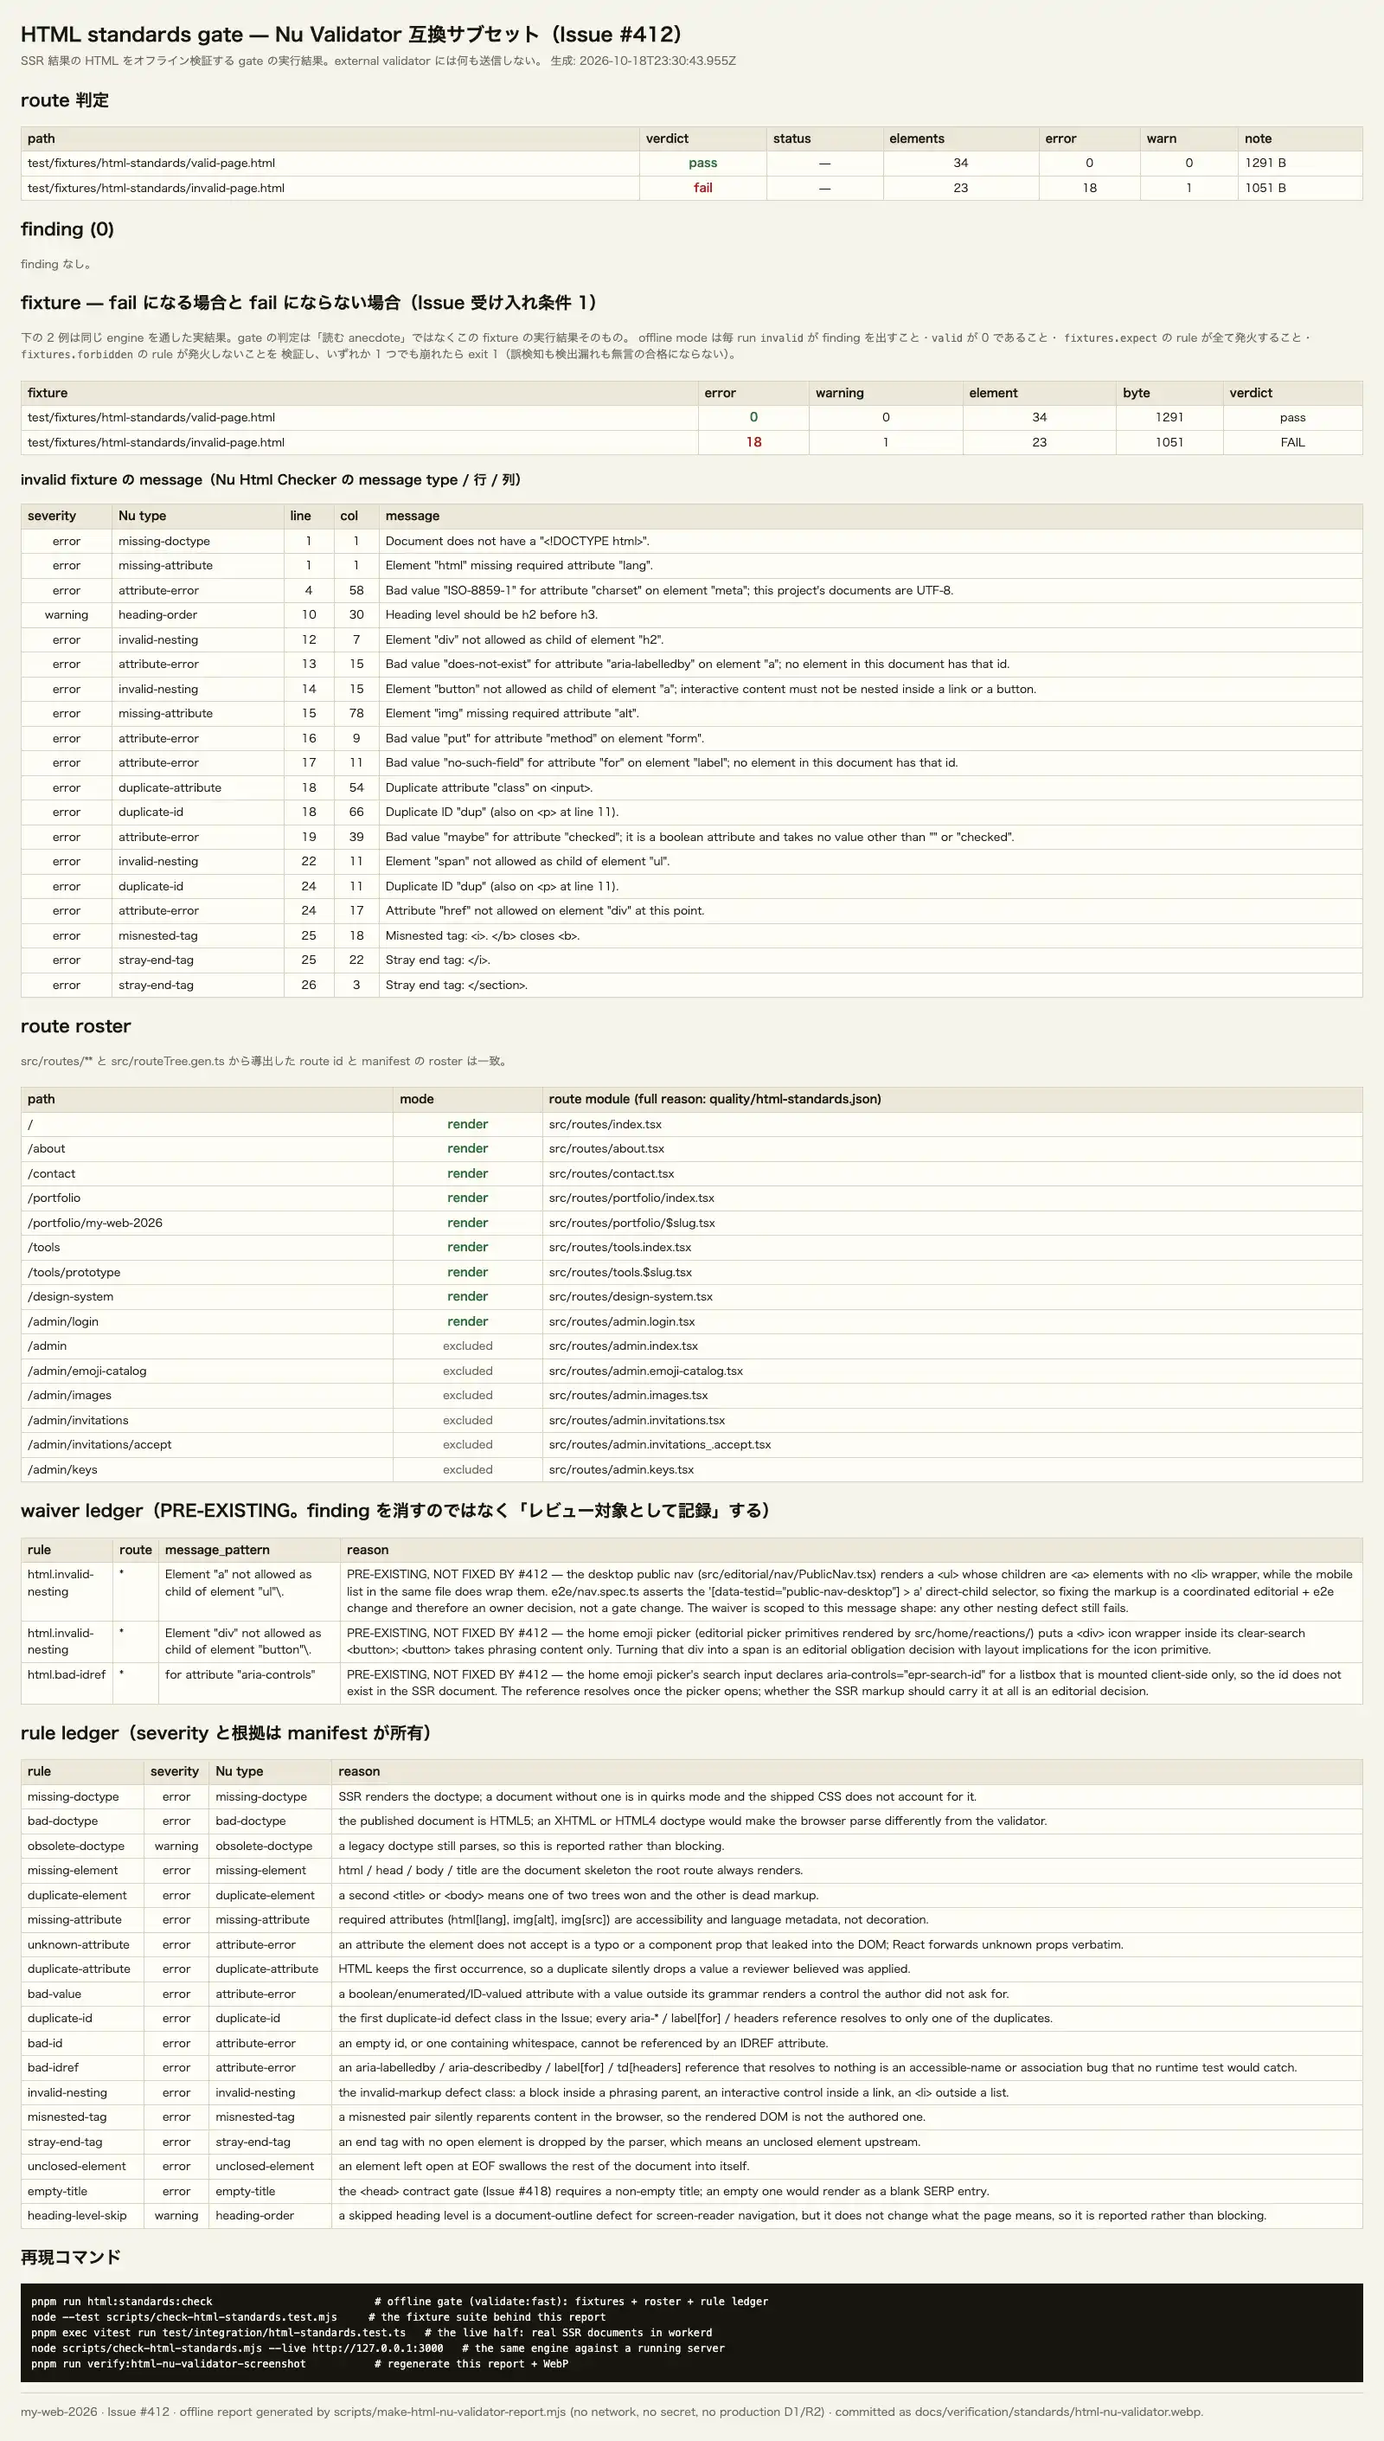
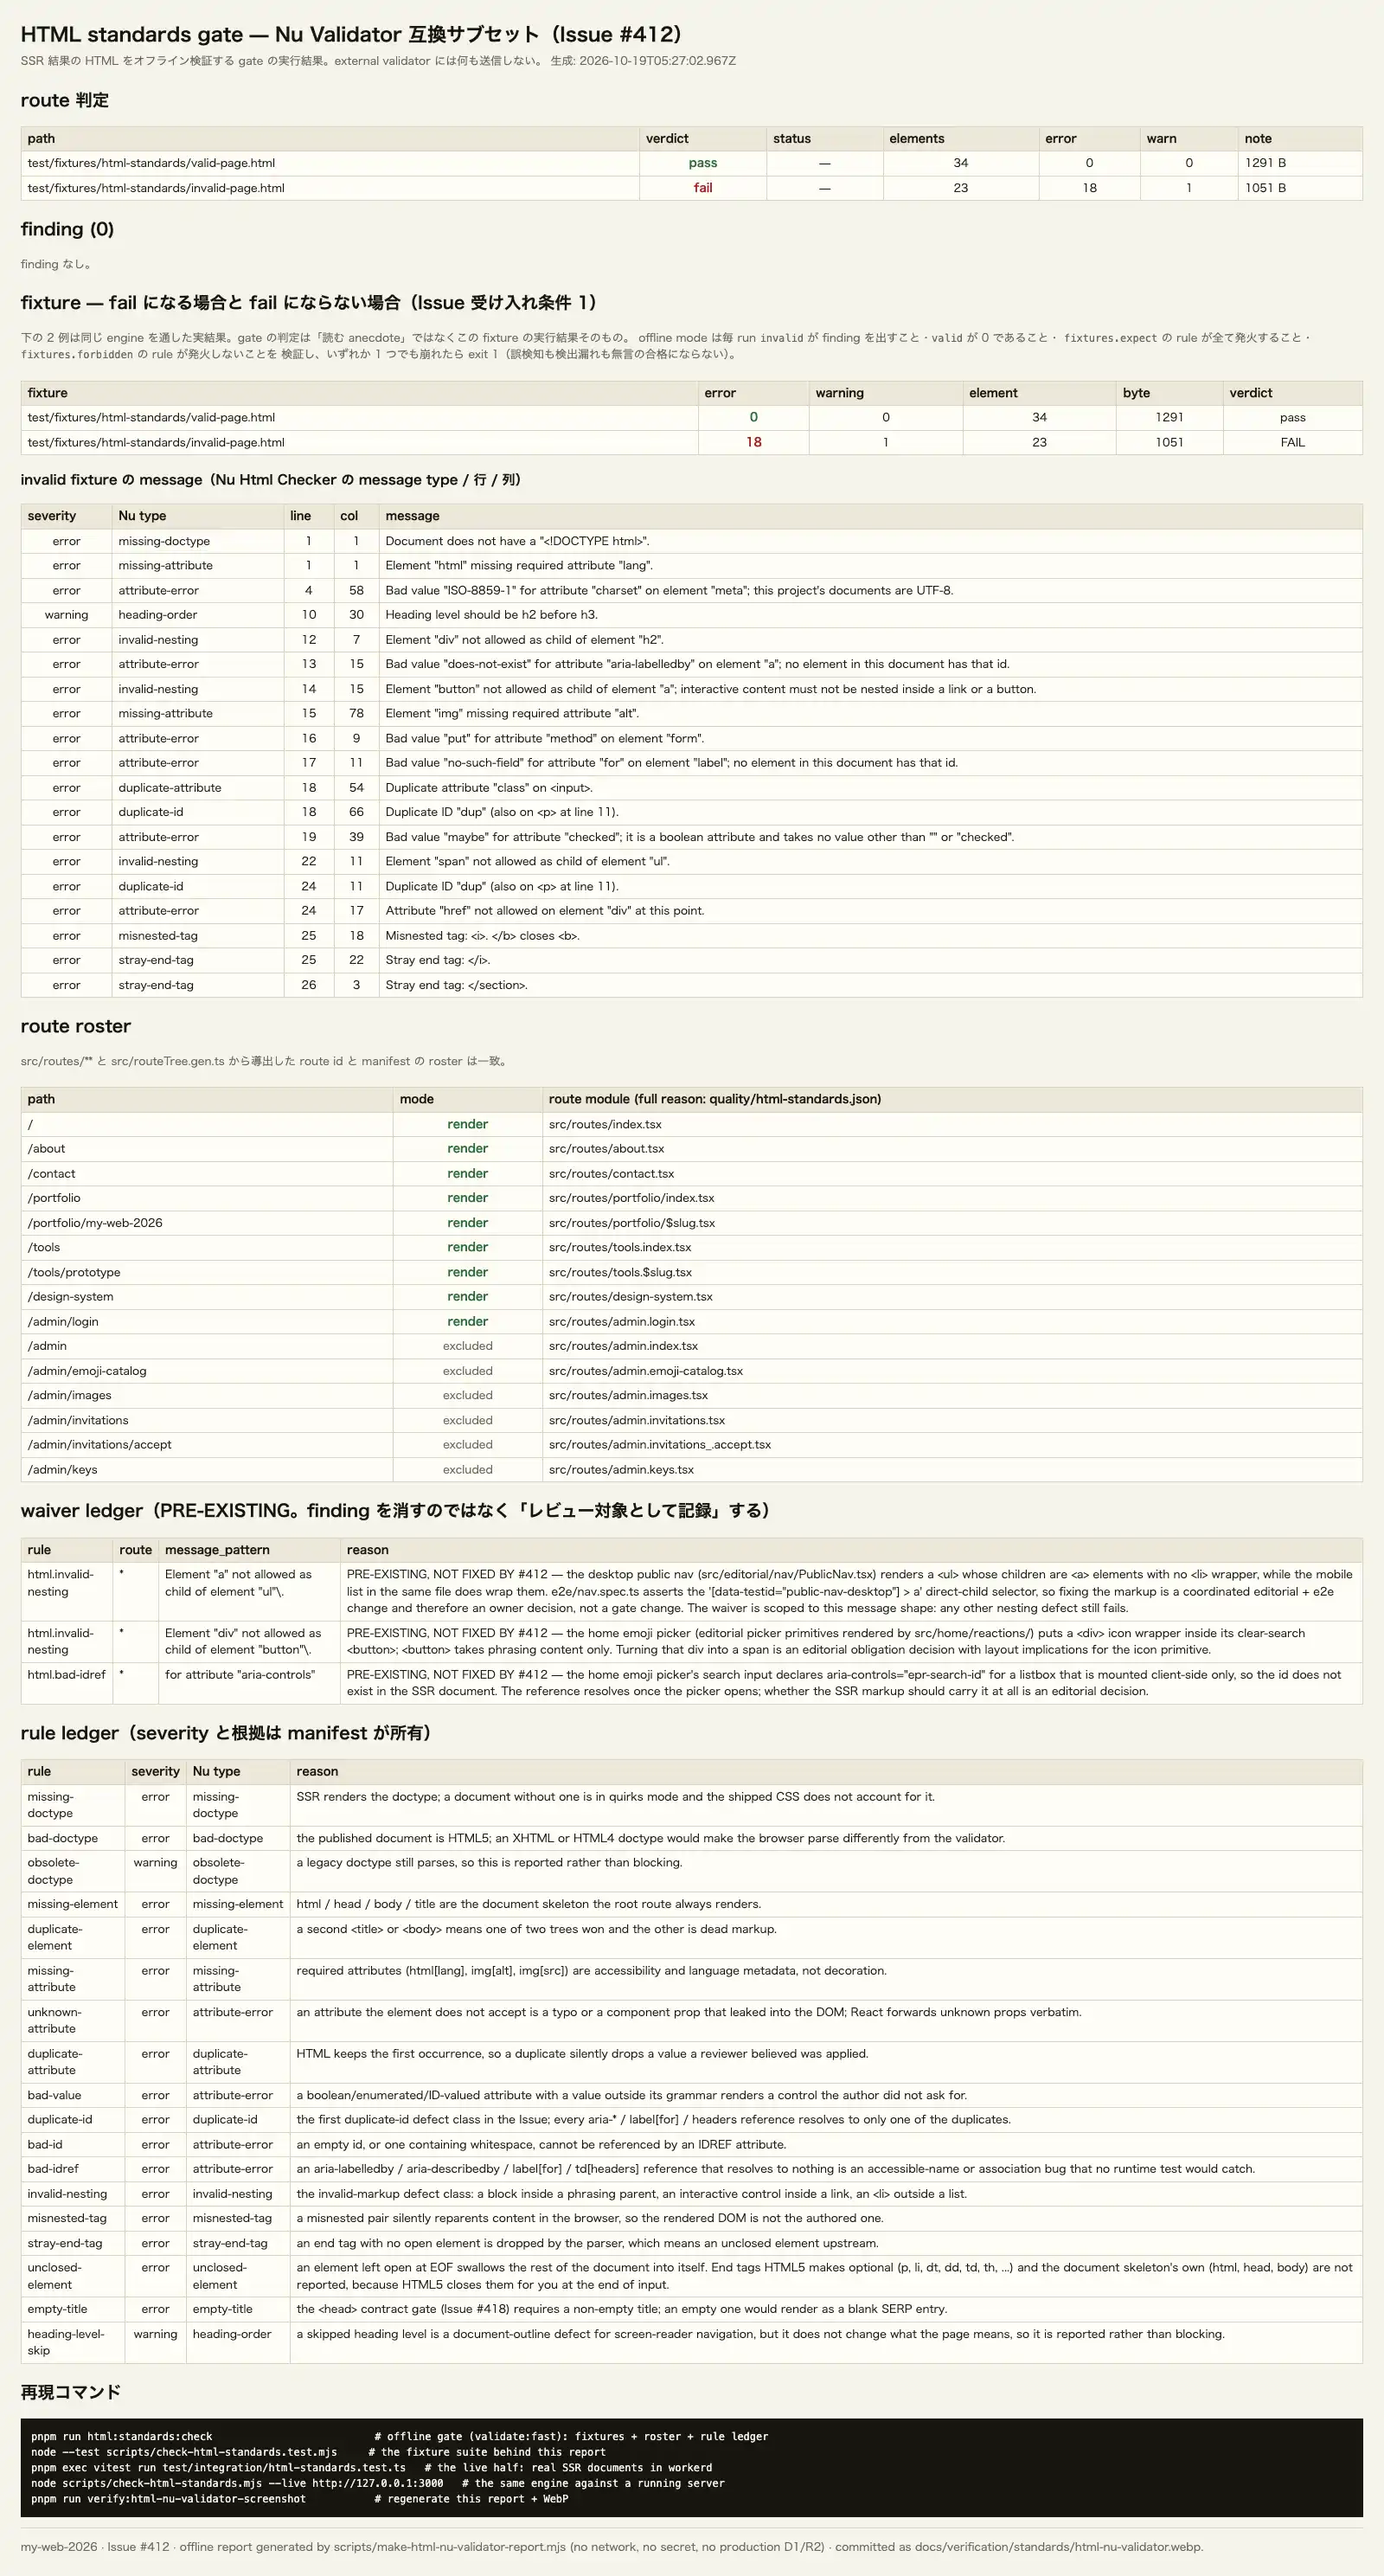
fix(standards): stop the HTML engine hanging and counting waived findings (#412)
Two defects in the Issue #412 gate engine, both found in review:

- The literal-`<` branch of the tokenizer called `advance(1)`, but
  `advance(to)` assigns the cursor absolutely (`i = to`), so any document
  holding a `<` that does not open a tag re-entered the loop at offset 1
  and appended a text node forever. `<p>a < b</p>` OOM'd the process
  instead of reporting a verdict. The branch now moves past the `<` and
  records the real column.
- `effectiveFindings()` counted waived findings although its own
  contract says waived findings never count against the exit code, so
  `--live` exited 1 and printed the three ledger-covered defects as
  FAIL on a codebase whose defects are all waived. It now matches
  `evaluateRoutes().stats.errors`, with a loopback `--live` regression
  test for both the covered (exit 0) and uncovered (exit 1) case.

Also from the same review: an element whose end tag HTML5 makes
optional (and the html/head/body skeleton) is no longer reported as
`unclosed-element` at EOF, the manifest loader rejects a manifest with no
fixture paths as unusable (exit 2) instead of throwing a raw TypeError,
the dead second disjunct in the `fixtures.expect` check is gone, the
verification note and profile describe the hoisted-`<style>` exemption
the engine actually implements, the SSR half documents that it validates
the failure-fallback state (no HOME_API_KEY in workerd), and the warning
assertion pins which rules may be non-blocking rather than how many.

diff --git a/test/integration/html-standards.test.ts b/test/integration/html-standards.test.ts
@@ -63,6 +63,21 @@ import { seedPortfolioRow } from './fixtures/portfolio-d1';
  * `/portfolio` read the portfolio tables), so the suite applies the real
  * migration files through `?raw` imports and seeds one public portfolio
  * row. Nothing is fetched from production and no secret is read.
+ *
+ * Which SSR state this covers — and which it does not
+ * ----------------------------------------------------
+ * The Worker runs here without `HOME_API_KEY`, so `/api/v1/access/count`
+ * and the reactions endpoints answer 401 and the home document renders
+ * their FAILURE fallbacks rather than the live numbers and the live emoji
+ * list. What is validated is therefore the failure-state document: the
+ * shell, the nav, the editorial primitives, the picker's SSR markup (the
+ * three shipped waivers match it, or this suite would fail with
+ * `waiver.unused`), the portfolio documents and the design-system route.
+ * The success-state markup of the counter and the reaction list is NOT
+ * covered here; it is what `--live <baseUrl>` against a running server
+ * covers. Seeding a valid API key into workerd is not done here on
+ * purpose: a test that depends on a credential is a test that silently
+ * stops covering the document.
  */
 
 type Severity = 'error' | 'warning';
@@ -252,15 +267,23 @@ describe('SSR HTML conformance (Issue #412)', () => {
 		);
 		// The gate fails on error-level findings only; warnings and waived
 		// findings are asserted separately below, so this assertion stays the
-		// one thing a reader scans in CI output.
+		// one thing a reader scans in CI output. `summary` is the failure
+		// message, so a red run prints the waived findings too — a waiver is
+		// a reviewable statement, not a hidden one.
 		expect(
 			blocking
 				.map((finding) => `${finding.rule} ${finding.path ?? ''}: ${finding.message}`)
 				.join('\n'),
+			summary,
 		).toBe('');
 		expect(result.stats.errors).toBe(0);
-		expect(warned.length).toBe(1);
-		expect(summary).toContain('warning html.heading-level-skip');
+		// The count of warnings is deliberately NOT pinned: `heading-level-skip`
+		// is a warning by policy, so a future route that skips a level must
+		// not redden `validate`. WHICH rules may appear as a non-blocking
+		// finding is pinned instead, so a new non-blocking rule fails here.
+		expect([...new Set(warned.map((finding) => finding.rule))]).toEqual([
+			'html.heading-level-skip',
+		]);
 	}, 60_000);
 
 	it('reports every non-waived finding a reader has to look at', async () => {

diff --git a/docs/verification/standards/html-nu-validator.md b/docs/verification/standards/html-nu-validator.md
@@ -87,6 +87,10 @@ engine の誤検知（false positive）に対する canary として意図的に
 
 つまり「invalid fixture が通るよう書き換えた」時点で gate は落ちます。
 
+manifest 自身が壊れている場合（`fixtures.valid` / `fixtures.invalid` が無い、
+`rules` の片方向が欠ける等）は **exit 2** です。gate ではなく「使えない宣言」
+として扱い、`runOfflineCheck` の途中から `TypeError` を投げ抜くことはしません。
+
 ## この gate が最初に見つけた既存 defect（waiver ledger）
 
 SSR half を実 Worker に対して走らせた結果、**この gate が新規に検出した既存の
@@ -108,17 +112,28 @@ waiver ledger の性質:
 - **使わなければ fail**。修正されて該当しなくなった waiver は `waiver.unused` で
   落ちるので、放置された waiver が緑を維持することはありません。
 - **suppress しても finding は report に出続けます**（`WAIVED` 表示）。
+  exit code には**入りません**。`evaluateRoutes().stats.errors` と
+  `effectiveFindings()` は同じ定義（`severity === 'error' && !waived`）です。
+  両者がずれると「ledger が全部 covering している codebase で `--live` が
+  exit 1 になる」という中途半端な状態が生まれるため、その一致を
+  `scripts/check-html-standards.test.mjs` が loopback 起点の `--live`
+  実行で回帰テストにしています。
 
-これらは **#412 で直していない既知の debt** であり、follow-up ticket の
-対象です（新規 route / 新規 component では同じ形が blocking になります）。
+これらは **#412 で直していない既知の debt** です。app markup の修正は
+editorial / home の obligation であり、既存 e2e selector の更新を伴う
+owner 判断（follow-up ticket の起票も owner 判断）のため、**現時点で
+follow-up ticket は未起票**です。新規 route / 新規 component では同じ形が
+blocking になります。
 
 ## engine と Nu Validator の意図的な差分
 
-- **body 直下の hoisted `<style>`** は finding にしません。React 19 は
-  streaming SSR で `<div hidden><style>…</style></div>` を出すため、判定すると
-  本リポジトリが出せる全ての document が落ちます（Nu は error 扱い）。
-  phrasing な親（`<ul>` / `<p>` / `<button>` など）の中の `<style>` は
-  従来どおり報告します。
+- **`<body>` 配下の flow content 要素に hoisted された `<style>`** は finding に
+  しません。React 19 は streaming SSR で `<div hidden><style>…</style></div>`
+  を出すため、判定すると本リポジトリが出せる全ての document が落ちます
+  （Nu は error 扱い）。豁免されるのは「直接の親が flow content で、
+  かつ `<body>` 以下の祖先がいる」`<style>` なので、`<section><style>` や
+  `<div><section><style>` も同じ扱いになります。**flow content でない親
+  （`<ul>` / `<p>` / `<button>` など）の中の `<style>` は従来どおり報告します。**
 - **element ごとの属性表が最頻の誤検知源**です。`autocomplete` は HTML が
   「listed attribute」と定める 4 要素（`form` / `input` / `select` /
   `textarea`）すべてに許されますが、表が 2 要素しかないと、
@@ -173,6 +188,19 @@ exit 2 は manifest が読めない/使えない場合です。
 - **HTML5 の部分集合**。rule table がモデル化した element のみが対象で、
   表に無い element 名は「finding にならない」。custom element を
   誤検知しない代わりに、未知の element の属性も検査しません。
+- **`<` の扱いは literal text**。tag を開かない `<`（`<p>a < b</p>` の `<`、
+  `<<<`、末尾の `<`）は HTML5 の text として保持され、以降の markup は
+  通常どおり parse されます。
+- **EOF で省略可能な end tag は `unclosed-element` にしません**。`<p>` / `<li>` /
+  `<dt>` / `<td>` など end tag を省略できる element、および `<html>` / `<head>` /
+  `<body>` が input 末尾まで開いていても HTML5 準拠です（ブラウザが暗黙に
+  閉じます）。`<div>` のように必須の end tag が欠けた場合は従来どおり報告します。
+- **SSR half が検証する document の範囲**。workerd 上では API key を持たないため
+  `/api/v1/access/count` と reactions 系が 401 で、home document は「失敗時
+  fallback」状態で評価されます（shell / nav / editorial primitive / picker の
+  SSR markup / portfolio / design-system は対象。counter と reaction list の
+  成功時 markup は対象外）。成功時をCover するのは `--live <baseUrl>` です。
+  詳細は `test/integration/html-standards.test.ts` の冒頭。
 - **foreign content**（`<svg>` / `<math>`）は属性・nesting を検査しません。
   SVG の属性名は大文字小文字が意味を持つ（`viewBox`）ため、naive に検査すると
   誤検知しか出ません。`id` の重複検査だけは foreign をまたいで効きます。
